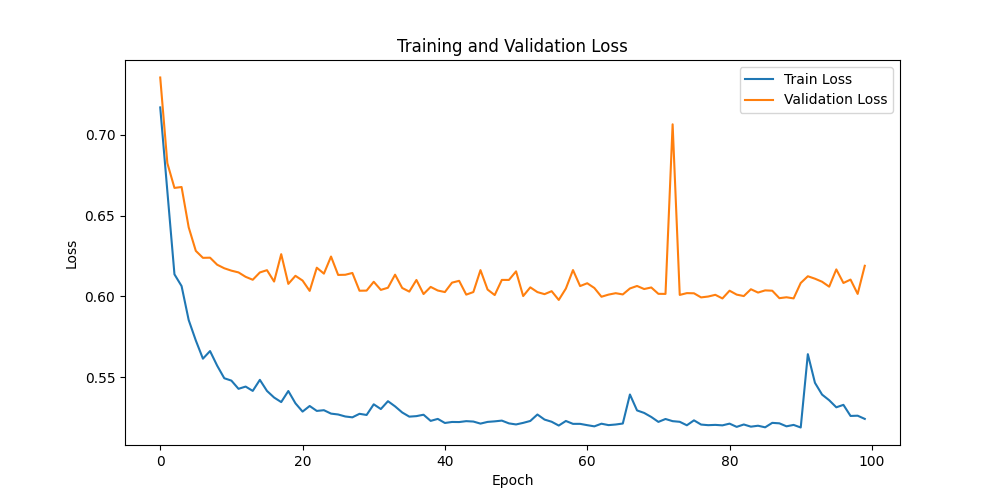
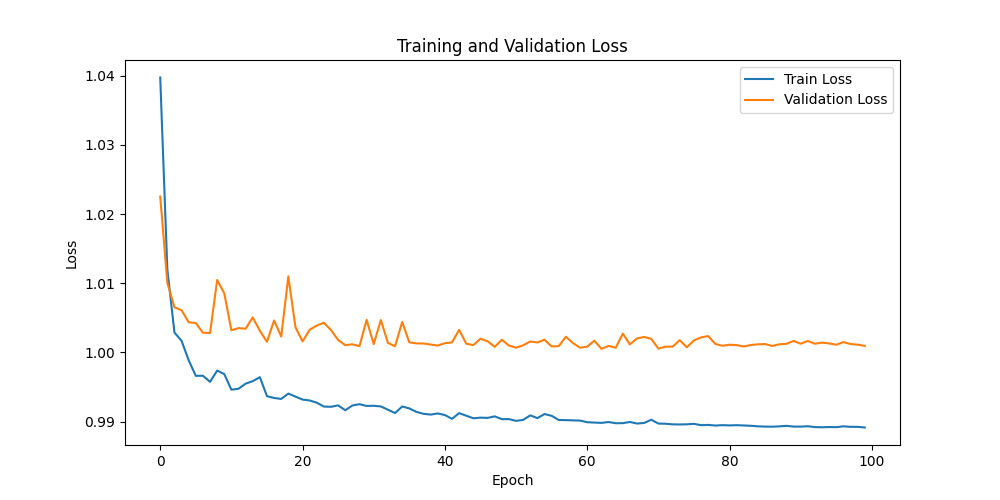
training fix. inference

diff --git a/inference.py b/inference.py
@@ -1,0 +1,96 @@
+import os
+import torch
+import numpy as np
+from PIL import Image
+from dataset import image_to_patches
+
+MODEL_PATH = 'unet_dibco_last.pth'
+BATCH_SIZE = 16
+PATCH_SIZE = 256
+THRESHOLD = 0.5
+THRESHOLD_MODE = 'mean'  # options: 'fixed', 'mean'
+IMAGE_PATH = "DAVU-UE1/dibco2009/DIBC02009_Test_images-handwritten/dibco_img0003.tif"
+OUTPUT_DIR = "output"
+
+device = torch.device('cuda' if torch.cuda.is_available() else 'cpu')
+
+def recompose_patches(patches, padded_shape, patch_h, patch_w):
+    n_h = padded_shape[0] // patch_h
+    n_w = padded_shape[1] // patch_w
+    patches = patches.reshape(n_h, n_w, patch_h, patch_w)
+    patches = patches.transpose(0, 2, 1, 3)
+    full = patches.reshape(padded_shape)
+    return full 
+
+
+def load_model(checkpoint_path, device):
+    model = torch.hub.load(
+        'mateuszbuda/brain-segmentation-pytorch',
+        'unet',
+        in_channels=1,
+        out_channels=1,
+        init_features=32,
+        pretrained=False,
+    )
+    state_dict = torch.load(checkpoint_path, map_location=device)
+    model.load_state_dict(state_dict)
+    model.to(device).eval()
+    return model
+
+
+def compute_threshold(prediction, mode='mean', fixed_threshold=0.5):
+    if mode == 'fixed':
+        return fixed_threshold
+    if mode == 'mean':
+        return float(prediction.mean())
+    raise ValueError(f"Unsupported threshold mode: {mode}")
+
+
+def predict_full_mask(model, image, patch_size=256, device='cpu', batch_size=16, threshold=0.5, threshold_mode='fixed'):
+    patches, padded_shape, pad = image_to_patches(image, patch_size, patch_size)
+    patches = patches.astype(np.float32) / 255.0
+    patches = patches[:, None, :, :]
+
+    outputs = []
+    with torch.no_grad():
+        for start in range(0, patches.shape[0], batch_size):
+            batch = torch.from_numpy(patches[start:start + batch_size]).to(device)
+            pred = model(batch)
+            pred = torch.sigmoid(pred).squeeze(1).cpu().numpy()
+            outputs.append(pred)
+
+    outputs = np.vstack(outputs)
+    full_padded = recompose_patches(outputs, padded_shape, patch_size, patch_size)
+    original_h, original_w = image.shape
+    full = full_padded[:original_h, :original_w]
+
+    threshold_value = compute_threshold(full, mode=threshold_mode, fixed_threshold=threshold)
+    mask = (full >= threshold_value).astype(np.uint8) * 255
+    return mask
+
+
+def save_mask(mask, output_path):
+    Image.fromarray(mask).save(output_path)
+
+
+def main():
+    os.makedirs(OUTPUT_DIR, exist_ok=True)
+    model = load_model(MODEL_PATH, device)
+    image = np.asarray(Image.open(IMAGE_PATH).convert('L'))
+    print(f"Loaded image {IMAGE_PATH} with shape {image.shape}")
+    mask = predict_full_mask(
+        model,
+        image,
+        patch_size=PATCH_SIZE,
+        device=device,
+        batch_size=BATCH_SIZE,
+        threshold=THRESHOLD,
+        threshold_mode=THRESHOLD_MODE,
+    )
+    print(f"Predicted mask shape: {mask.shape}, dtype: {mask.dtype}, min: {mask.min()}, max: {mask.max()}")
+    save_mask(mask, f"{OUTPUT_DIR}/output_mask.png")
+    print(f'Saved padded reconstructed mask to {OUTPUT_DIR}/{IMAGE_PATH.replace(IMAGE_PATH.split(".")[-1], "png")}')
+
+
+if __name__ == '__main__':
+    main()

diff --git a/train.py b/train.py
@@ -6,7 +6,7 @@ import matplotlib.pyplot as plt
 from torchvision import transforms
 from dice_loss import BinaryDiceLoss
 from torch.utils.data import DataLoader
-from preprocess import get_train_val_data
+from dataset import get_train_val_data
 
 Dataset_dir = './DIBCO/'   
 patch_size  = 256
@@ -17,7 +17,7 @@ val_split_size = 0.2
 
 BATCH_SIZE = 16
 NUM_EPOCHS = 100
-LR = 5e-4
+LR = 1e-3
 
 torch.manual_seed(seed)
 np.random.seed(seed)
@@ -90,7 +90,7 @@ model = torch.hub.load('mateuszbuda/brain-segmentation-pytorch', 'unet',
 model.to(device)
 model.train()
 
-bceloss = torch.nn.BCELoss()
+bceloss = torch.nn.BCEWithLogitsLoss()
 dice_loss = BinaryDiceLoss()
 
 optimizer = torch.optim.Adam(model.parameters(), lr=LR, weight_decay=1e-5)
@@ -104,14 +104,16 @@ for epoch in range(NUM_EPOCHS):
         images, masks = images.to(device), masks.to(device)
         optimizer.zero_grad()
         outputs = model(images)
-        loss = bceloss(outputs, masks) + dice_loss(outputs, masks)
+        loss = bceloss(outputs, masks) + dice_loss(torch.sigmoid(outputs), masks)
         loss.backward()
         optimizer.step()
-        scheduler.step()
         epoch_loss += loss.item()
+
+    scheduler.step()
 
     avg_epoch_loss = epoch_loss / len(train_loader)
     print(f"Epoch [{epoch+1}/{NUM_EPOCHS}], Loss: {avg_epoch_loss:.4f}")
+    print(f"BCE Loss: {bceloss(outputs, masks).item():.4f}, Dice Loss: {dice_loss(torch.sigmoid(outputs), masks).item():.4f}")
     train_losses.append(avg_epoch_loss)
 
     model.eval()
